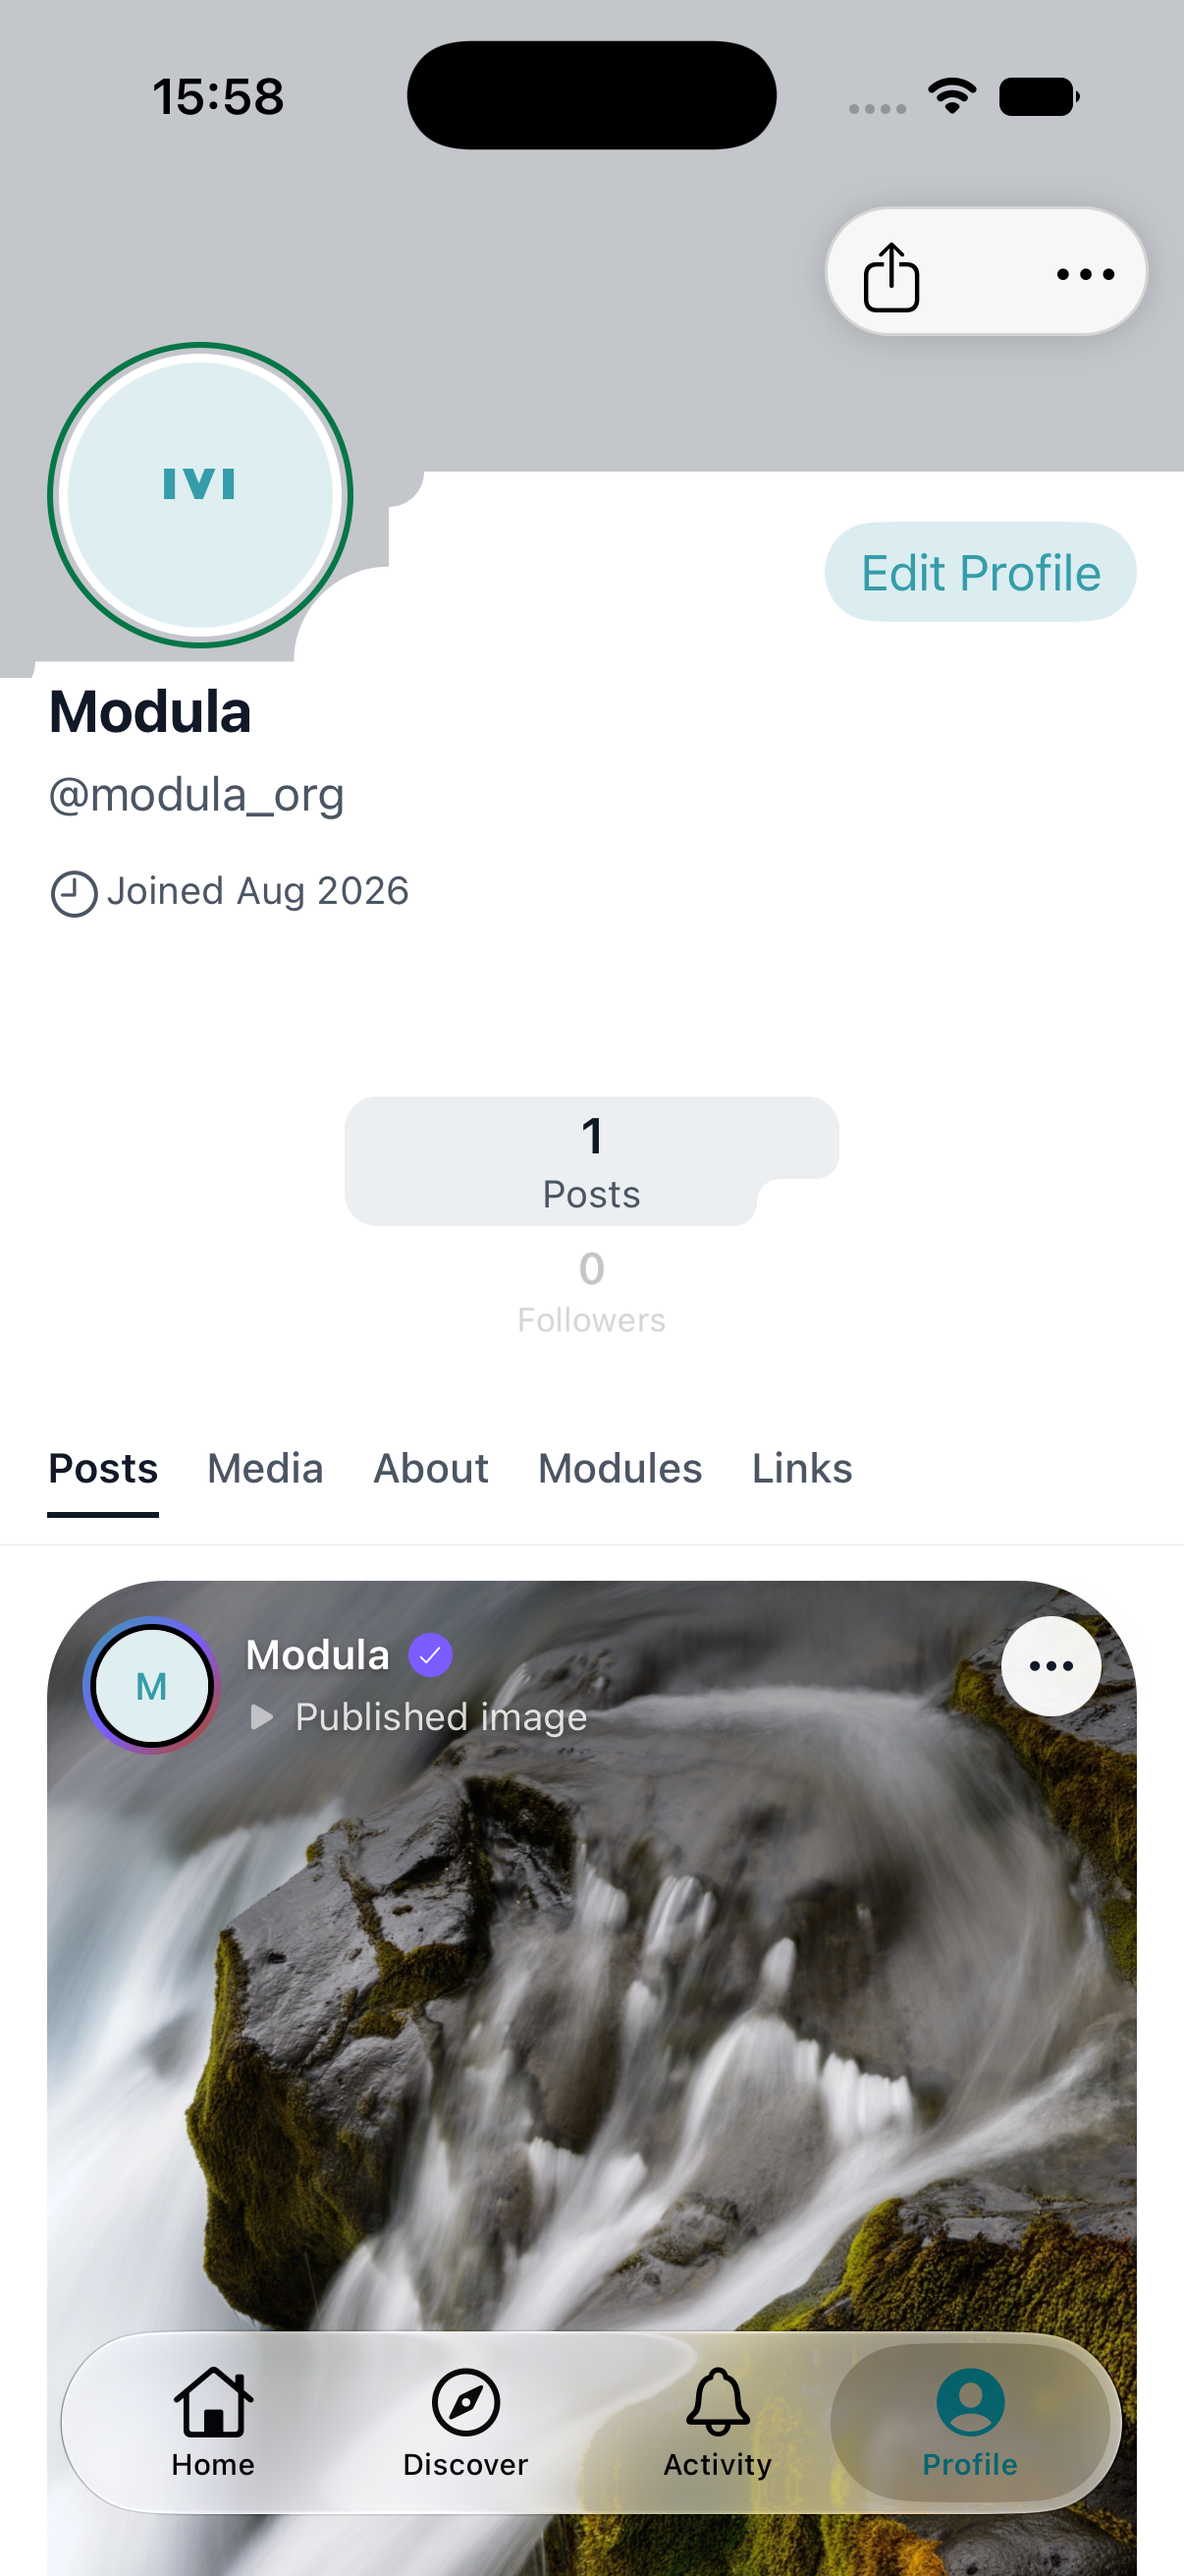
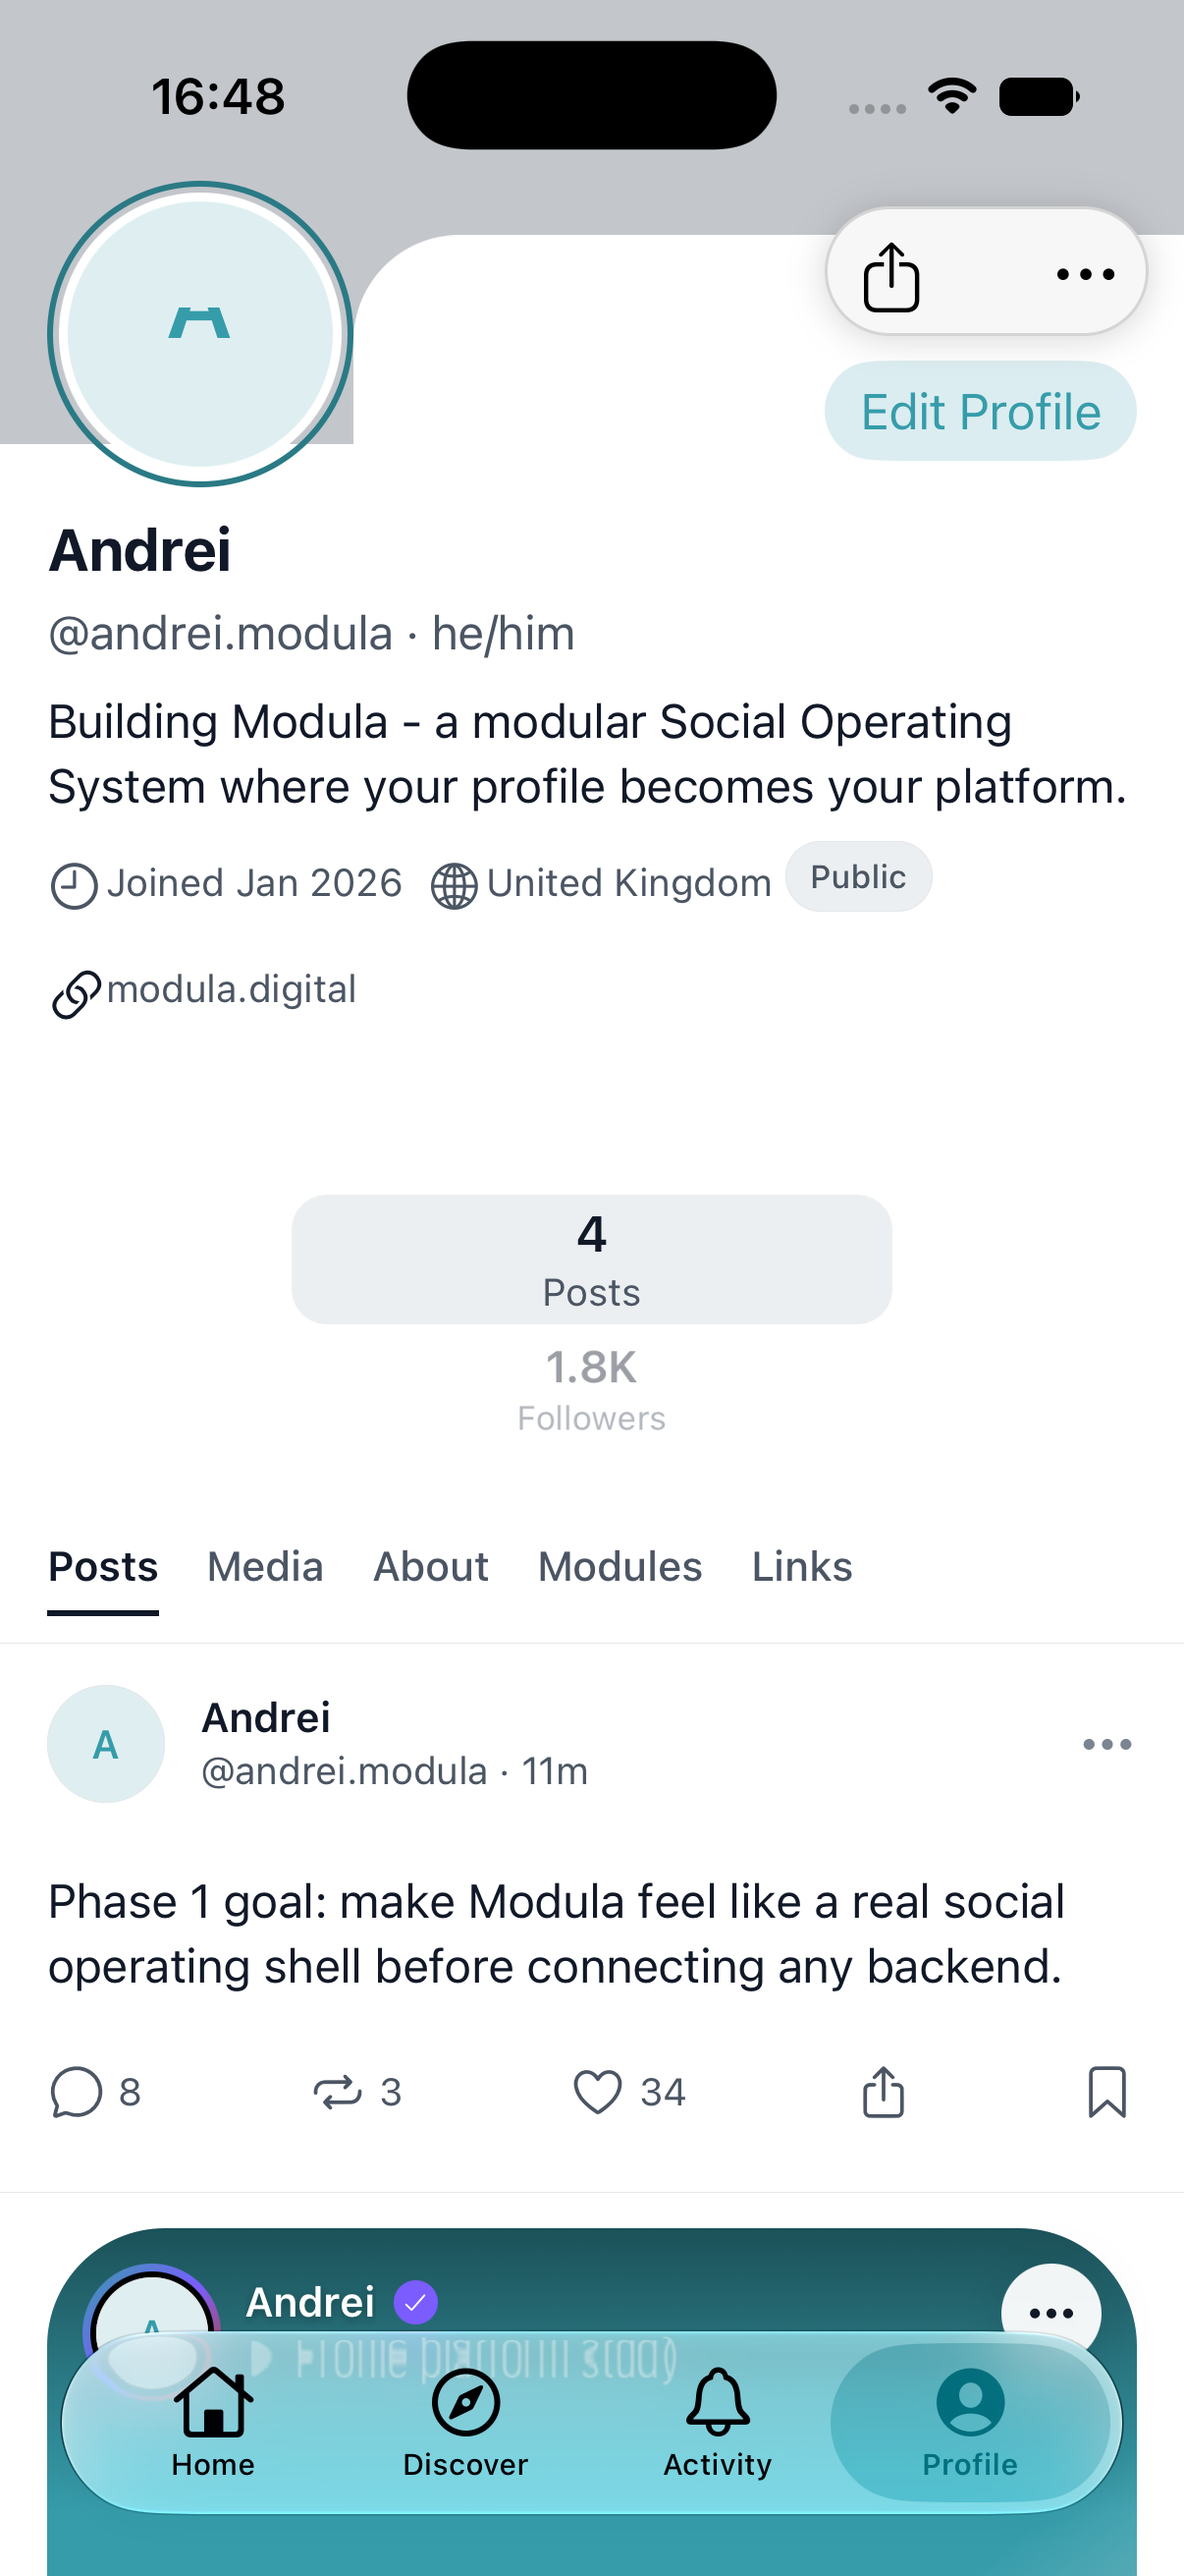
docs(7m-b6): recapture Profile evolution screenshots after UI fixes
Replace the broken first evidence set. Cover lip, rounded metric pill,
and sticky tabs below the island are visible on iPhone 17 Pro. Dark and
OLED headers are captured from Appearance. Photo-cover remains unshot
on this demo owner.

diff --git a/docs/validation/evidence/phase7m-b6/screenshots-profile-evolution/README.md b/docs/validation/evidence/phase7m-b6/screenshots-profile-evolution/README.md
@@ -1,6 +1,6 @@
 # Phase 7M-B6 Profile evolution evidence
 
-Captured 2026-08-16 on **iPhone 17 Pro Simulator** (`0727E2F0-8528-44DA-9F4C-7B5F7394096B`, iOS 27.0) with Metro on `cursor/phase7m-b6-profile-evolution-8344`.
+Captured 2026-08-16 on **iPhone 17 Pro Simulator** (`0727E2F0-8528-44DA-9F4C-7B5F7394096B`, iOS 27.0) after the cover-lip / picker / sticky-tab fixes. Metro on `cursor/phase7m-b6-profile-evolution-8344`. Local demo-owner session (`@andrei.modula`) — the earlier Modula-org seed was not restored after a Metro cache clear.
 
 ```
 PRODUCTION DEPLOYED = NO
@@ -8,34 +8,30 @@ PRODUCTION DEPLOYED = NO
 FOUNDER VISUAL APPROVAL = PENDING
 ```
 
-## What changed
+## What the first shot set got wrong
 
-The existing owner Profile on NativeTabs was evolved in place:
+Those files were not OK:
 
-- Full-bleed cover still paints under the status bar
-- Inverted canvas transition wraps the avatar
-- Focus Halo is a compact status ring
-- Inline stats became the Profile Metric Picker
-- Metric order / visibility / default persist through Customize
-- Profile tabs stick while content scrolls
-- Content padding clears NativeTabs when automatic insets are disabled
+1. Cover inverted path used `cornerRadius={0}` and drew a jagged white blob behind Edit Profile
+2. Metric picker used `InvertedSelectedSurface` (bitten gray pill) with neighbor opacity 0.25
+3. Sticky tabs sat at y=0 under the Dynamic Island (Reanimated padding is ignored on iOS sticky clones)
+4. `03` was a duplicate of `01`; `06` / `07` were still Light and showed a scrolled media post
 
-## Shots
+## What to look at now
 
 | File | Surface | What to look at | Status |
 | --- | --- | --- | --- |
-| `01-profile-owner-empty-cover.png` | Owner / empty cover | Banner at y=0, no white header, no back, share+overflow, inverted wrap, picker, tabs, first post visible | Captured |
-| `02-profile-owner-photo-cover.png` | Owner / photo cover | Photo under status bar | **Not captured** — this seed has no `coverUri`; empty cover is the intentional fixture |
-| `03-profile-metric-picker.png` | Metric picker | Previous empty at start / selected Posts / next Followers | Captured (same first viewport as 01) |
-| `04-profile-metric-customize.png` | Customize | Profile Metrics shown list, default metric, Focus Halo | Captured |
-| `05-profile-scrolled-tabs.png` | Scrolled | Sticky tabs, post content, NativeTabs still present | Captured |
-| `06-profile-dark.png` | Dark | Attempted via Appearance; in-app mode stayed Light on this pass | Partial — see limitation |
-| `07-profile-oled.png` | OLED | OLED tile is inside the dark-depth segmented control, not a primary tile | Partial — not a dedicated OLED profile header |
+| `01-profile-owner-empty-cover.png` | Owner / empty cover | Banner under status bar, canvas lip to the right of the avatar, rounded picker pill, tabs, first post | Recaptured |
+| `02-profile-owner-photo-cover.png` | Owner / photo cover | Photo under status bar | **Not captured** — demo owner has no `coverUri` |
+| `03-profile-metric-picker.png` | Metric picker | Wheel after an up-swipe; selected surface is a rounded muted rect, not a bitten pill | Recaptured |
+| `04-profile-metric-customize.png` | Customize | Profile Metrics shown list, default metric, Focus Halo | Recaptured |
+| `05-profile-scrolled-tabs.png` | Scrolled | Sticky tabs below the island, NativeTabs still present | Recaptured |
+| `06-profile-dark.png` | Dark | Owner profile header in Dark (Appearance → Dark mode) | Recaptured |
+| `07-profile-oled.png` | OLED | Owner profile header in OLED (Dark depth segmented control) | Recaptured |
 
 ## Known limitations
 
 - Founder visual approval is still required
-- Photo-cover shot depends on a locally set cover; demo/device seed used here has none
+- Photo-cover shot depends on a locally set cover; this demo owner has none
 - Compact identity header during collapse was omitted to avoid a second drifting header
 - Module-contributed metrics are registry-ready only; no speculative backend
-- Dark / OLED profile-header recapture needs a follow-up on the Appearance dark-depth segmented control
